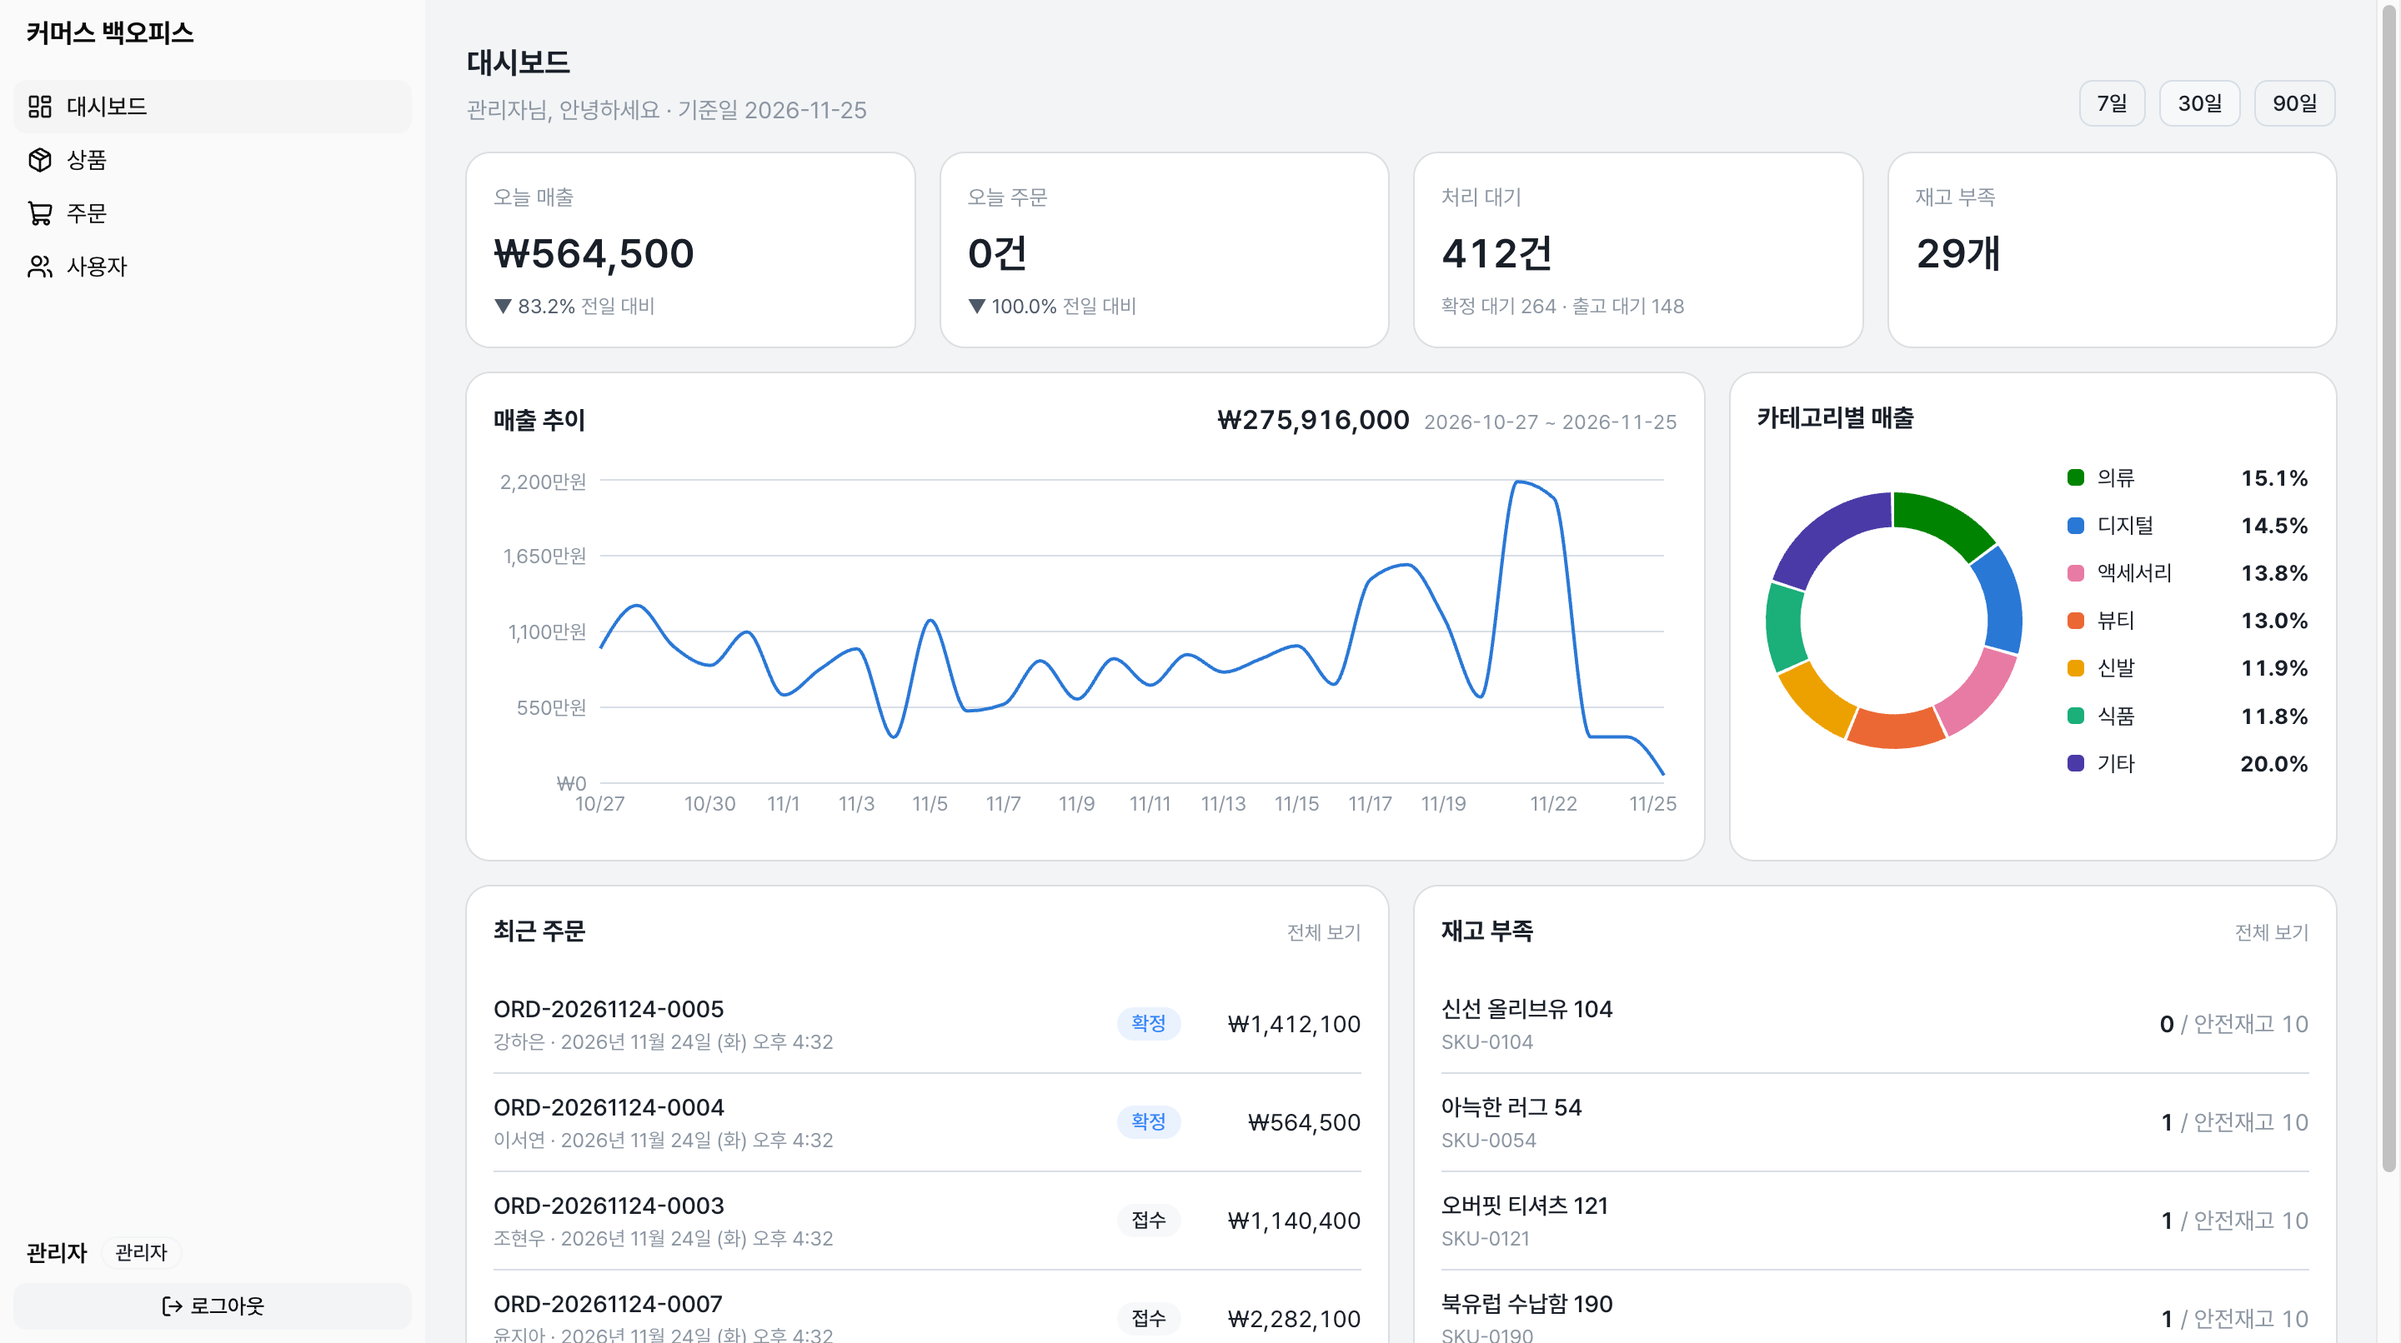
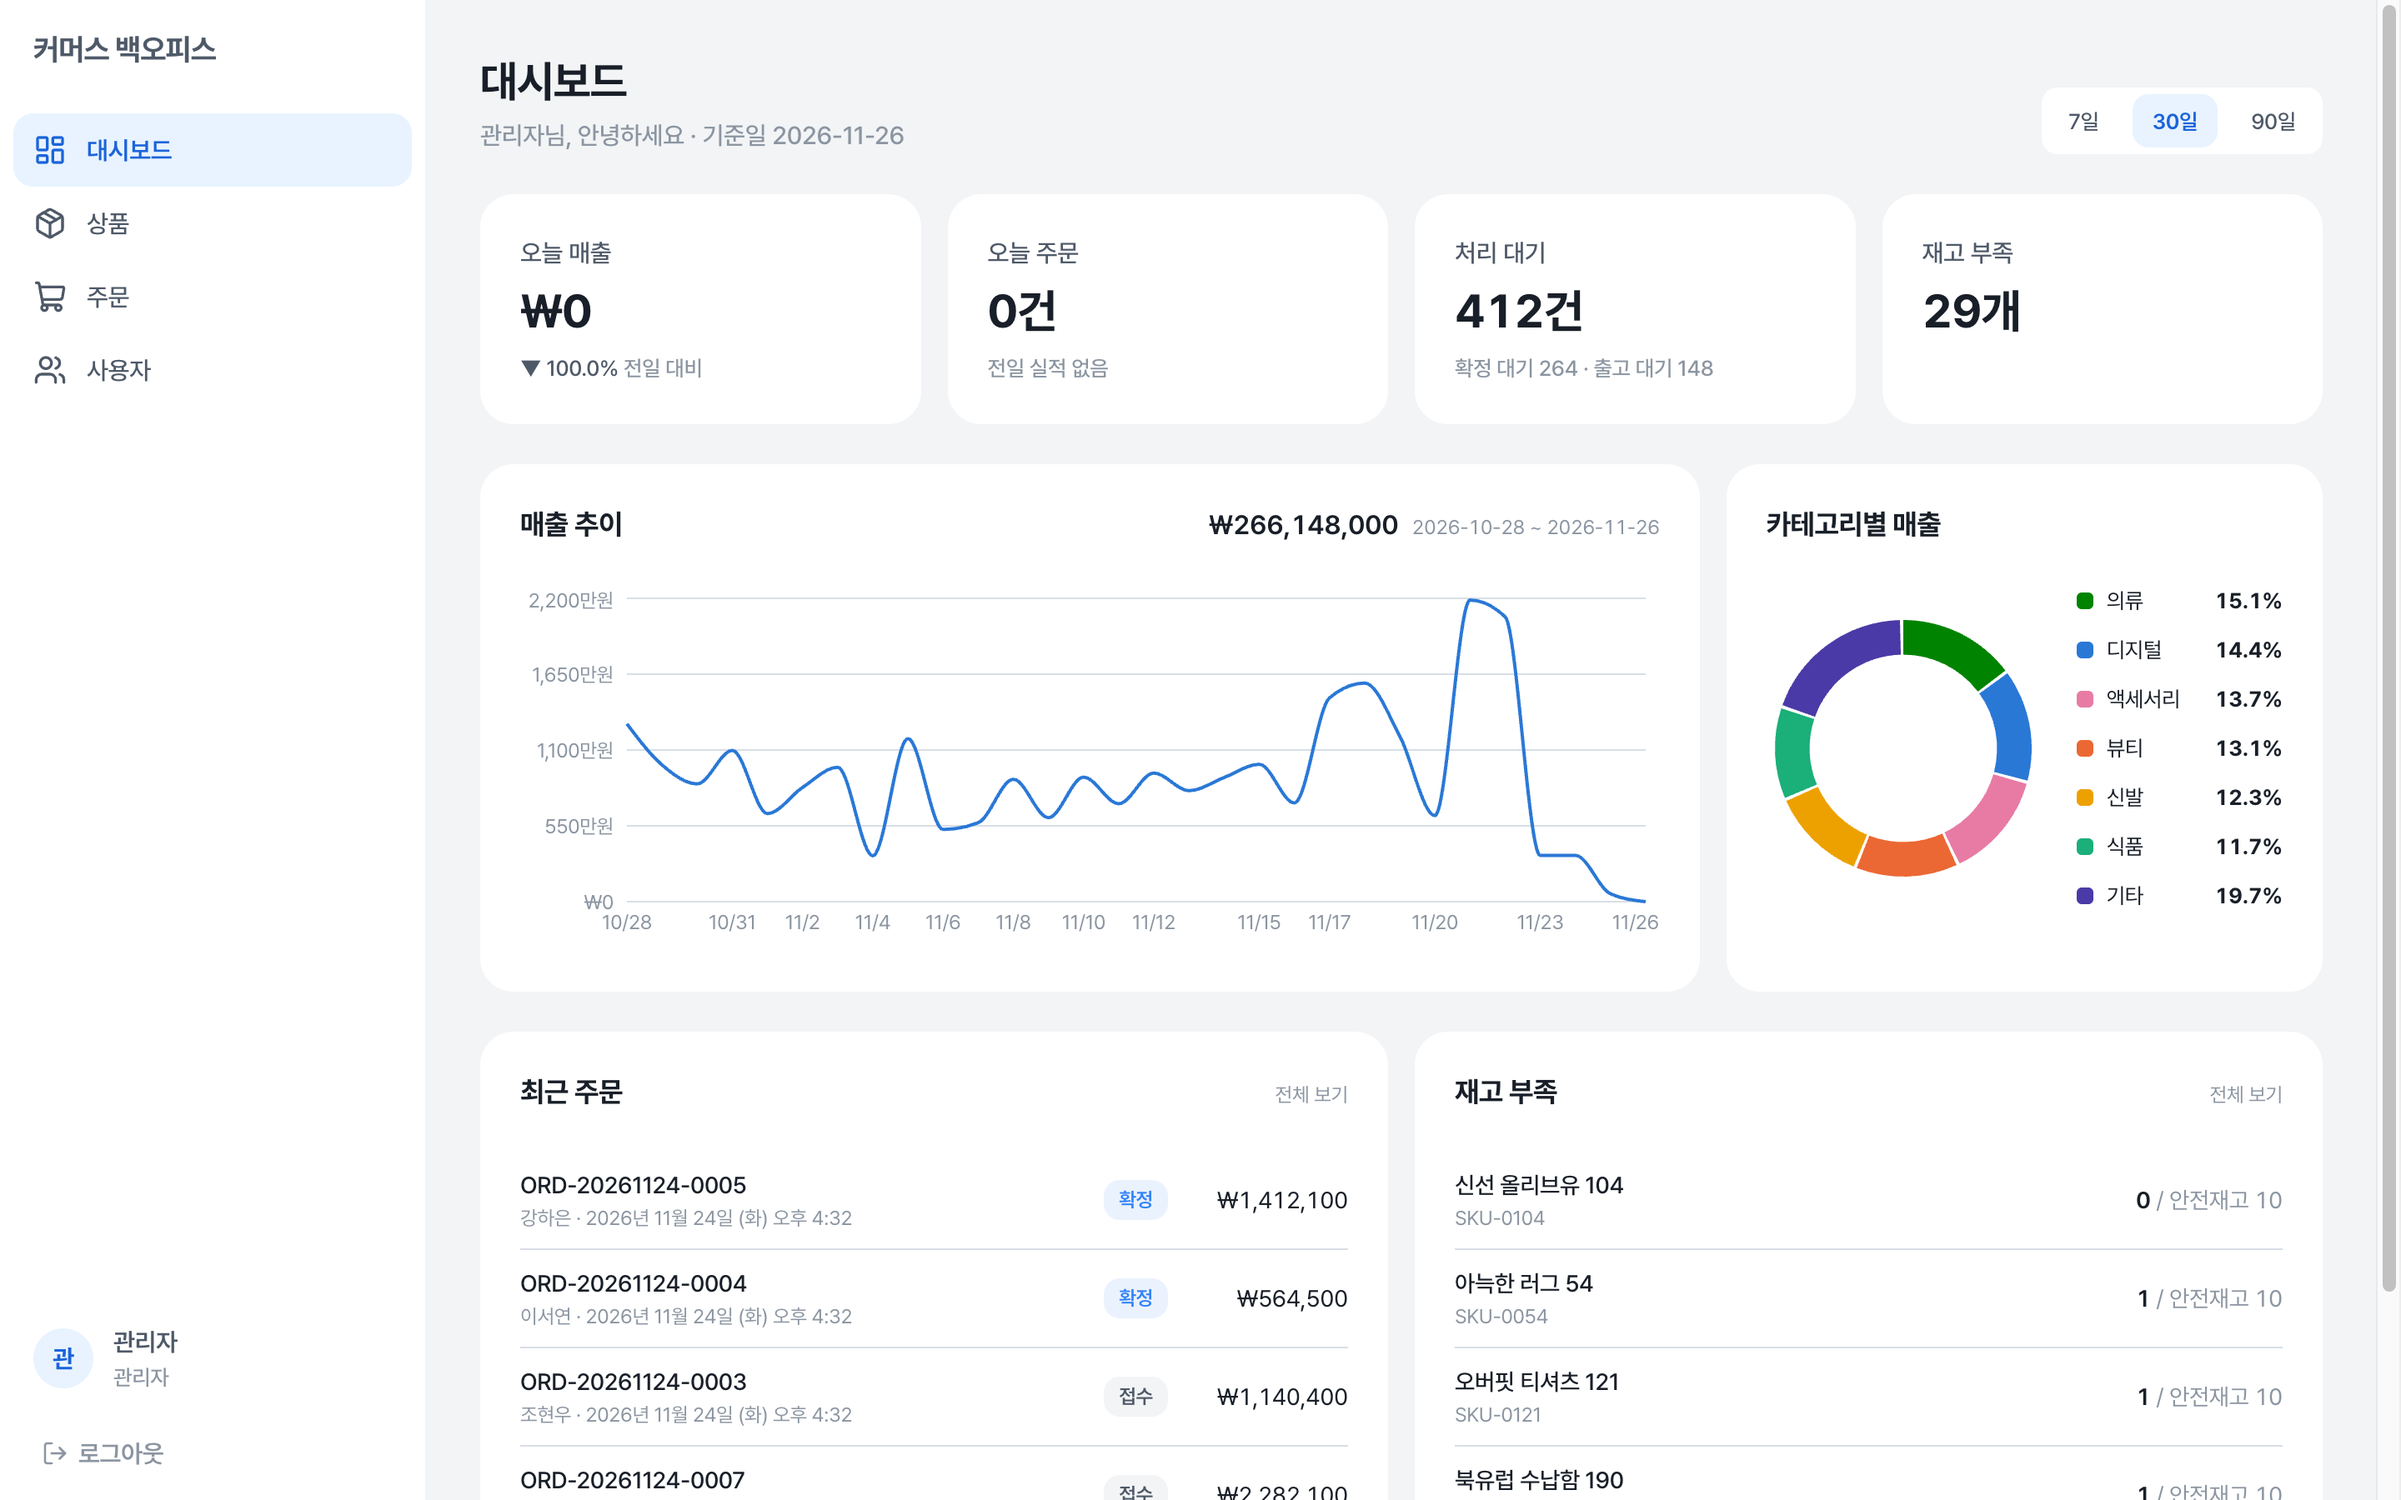
docs: README를 최신 UI 기준으로 갱신하고 스크린샷 교체
검색·상품 모달·달력·스켈레톤·토스트 등 바뀐 UI를 주요 기능에 반영하고, 대시보드·주문·상품 상세 모달·사용자 스크린샷을 새로 찍는다.
상세 모달의 재고 이력 표가 좁은 열에서 가로로 넘치지 않게 일시를 줄이고 줄바꿈을 허용한다.

diff --git a/apps/web/src/widgets/inventory-history/ui/inventory-history.tsx b/apps/web/src/widgets/inventory-history/ui/inventory-history.tsx
@@ -46,7 +46,11 @@ export function InventoryHistory({ productId, pageSize, compact = false }: Inven
   return (
     <div className={cn('flex flex-col gap-2', compact && 'min-h-[18.75rem] flex-1')}>
       <Table
-        className={cn(compact && '[&_td]:h-11 [&_td]:px-2 [&_td]:py-1 [&_th]:h-10 [&_th]:px-2')}
+        // 좁은 열에서도 가로로 넘치지 않게 칸 여백을 줄이고 줄바꿈을 허용한다(비고의 주문번호 등)
+        className={cn(
+          compact &&
+            '[&_td]:h-11 [&_td]:px-2 [&_td]:py-1 [&_td]:break-all [&_td]:whitespace-normal [&_th]:h-10 [&_th]:px-2',
+        )}
       >
         <TableHeader>
           <TableRow>
@@ -87,7 +91,9 @@ export function InventoryHistory({ productId, pageSize, compact = false }: Inven
           ) : (
             items.map((item) => (
               <TableRow key={item.id}>
-                <TableCell>{kst(item.createdAt).format('YYYY.MM.DD HH:mm')}</TableCell>
+                <TableCell className={cn(compact && 'break-normal whitespace-nowrap')}>
+                  {kst(item.createdAt).format(compact ? 'MM.DD HH:mm' : 'YYYY.MM.DD HH:mm')}
+                </TableCell>
                 <TableCell>{INVENTORY_REASON_LABEL[item.reason]}</TableCell>
                 <TableCell
                   className={cn(

diff --git a/README.md b/README.md
@@ -23,7 +23,7 @@ flowchart LR
 
 - 모노레포: pnpm workspace (Node 24)
 - API: NestJS 12 (ESM), TypeORM, PostgreSQL 16, Vitest + Testcontainers
-- Web: Next.js 16, Tailwind CSS
+- Web: Next.js 16, Tailwind CSS, Radix·shadcn/ui
 - 공용 계약: `@bo/contracts` (API·Web이 함께 쓰는 TS 타입·enum, tsup 빌드)
 - 저장소: S3 호환 오브젝트 스토리지 (로컬 s3mock / 배포 R2·S3)
 - 인프라: docker compose (PostgreSQL, s3mock)
@@ -95,13 +95,14 @@ pnpm dev
 
 ### 상품·이미지
 
-- 상품 목록: 필터·정렬·페이지를 URL 쿼리와 동기화해 새로고침해도 유지된다.
+- 상품 목록: 필터·정렬·페이지를 URL 쿼리와 동기화해 새로고침해도 유지된다. 검색은 Enter나 검색 버튼을 눌렀을 때만 요청한다.
+- 상품 등록·상세는 목록 위 모달이다. 상세는 `?detail=<id>`로 열려 새로고침·링크 공유에도 유지되고, 넓은 화면에서 왼쪽 기본 정보·이미지, 오른쪽 재고(5개씩 페이징)를 스크롤 없이 보여 준다. 닫기·취소·저장은 스크롤되지 않는 하단에 있다.
 - 상품 등록·수정·삭제 (역할별 권한 적용, 뷰어는 읽기 전용).
 - 이미지 업로드·리사이즈: 업로드한 이미지를 WebP로 변환해 저장하고 `/media/{key}`로 제공한다.
 
 ### 주문·재고
 
-- 주문 목록: 상태 탭, KST 기간 프리셋(오늘·7일·30일), 주문번호·고객 검색을 URL 쿼리와 동기화한다. 개발 편의용 가상 주문 생성 버튼이 있다.
+- 주문 목록: 상태 탭, 달력(shadcn Calendar, 오늘 이후 날짜는 선택 불가)과 KST 기간 프리셋(오늘·7일·30일), 주문번호·고객 검색을 URL 쿼리와 동기화한다. 개발 편의용 가상 주문 생성 버튼이 있다.
 - 주문 상세: 품목, 상태 타임라인, 상태 전이(확정·배송·완료·취소). 전이는 한 트랜잭션에서 주문 행과 재고를 함께 바꾼다. 재고가 부족하면 품목별로 안내하고(422), 다른 사용자가 먼저 상태를 바꿨으면 충돌 안내(409)를 보여준다.
 - 재고: 상품 화면에서 입고·출고로 재고를 수동 조정하고, 모든 재고 변동(주문 확정·취소, 수동 조정)을 이력으로 확인한다. 이력의 주문번호는 주문 상세로 연결된다.
 - 삭제된 상품이 들어 있는 주문도 상세에서 상품명과 "삭제된 상품" 뱃지로 보인다(링크 없음).
@@ -135,6 +136,8 @@ pnpm dev
 
 ### 기타
 
+- UI: 토스 UI를 참고한 디자인(회색 바탕 위 흰 시트, 넉넉한 크기, 누를 수 있는 요소의 pointer cursor). Tailwind·Radix·shadcn만 쓴다.
+- 데이터를 불러오는 동안 실제 모양을 닮은 스켈레톤을 보여 주고, 등록·저장·삭제 등이 끝나면 토스트로 알린다.
 - 고아 이미지 정리: 매일 04:00(KST)에 크론이 지운다. 대상은 24시간 넘게 상품에 연결되지 않은 이미지(저장하지 않은 업로드와 상품에서 떼어낸 이미지)와, 24시간 넘게 소프트 삭제된 상품의 이미지다.
 - 화면의 오류 문구는 `errorMessage`가 에러 코드로 정하는 한국어다. 서버의 영어 `message`는 개발자용이다.
 - Swagger(`/api/docs`)는 태그별로 묶여 있고 `/dev/*`는 빠져 있다. 공통 에러 응답은 `ApiErrorBody` 스키마다.
@@ -151,9 +154,9 @@ pnpm dev
 
 ## 스크린샷
 
-| 주문 목록                            | 상품 수정                                  |
-| ------------------------------------ | ------------------------------------------ |
-| ![주문 목록](docs/images/orders.png) | ![상품 수정](docs/images/product-edit.png) |
+| 주문 목록                            | 상품 상세 모달                                    |
+| ------------------------------------ | ------------------------------------------------- |
+| ![주문 목록](docs/images/orders.png) | ![상품 상세 모달](docs/images/product-detail.png) |
 
 ![사용자 관리](docs/images/users.png)
 
